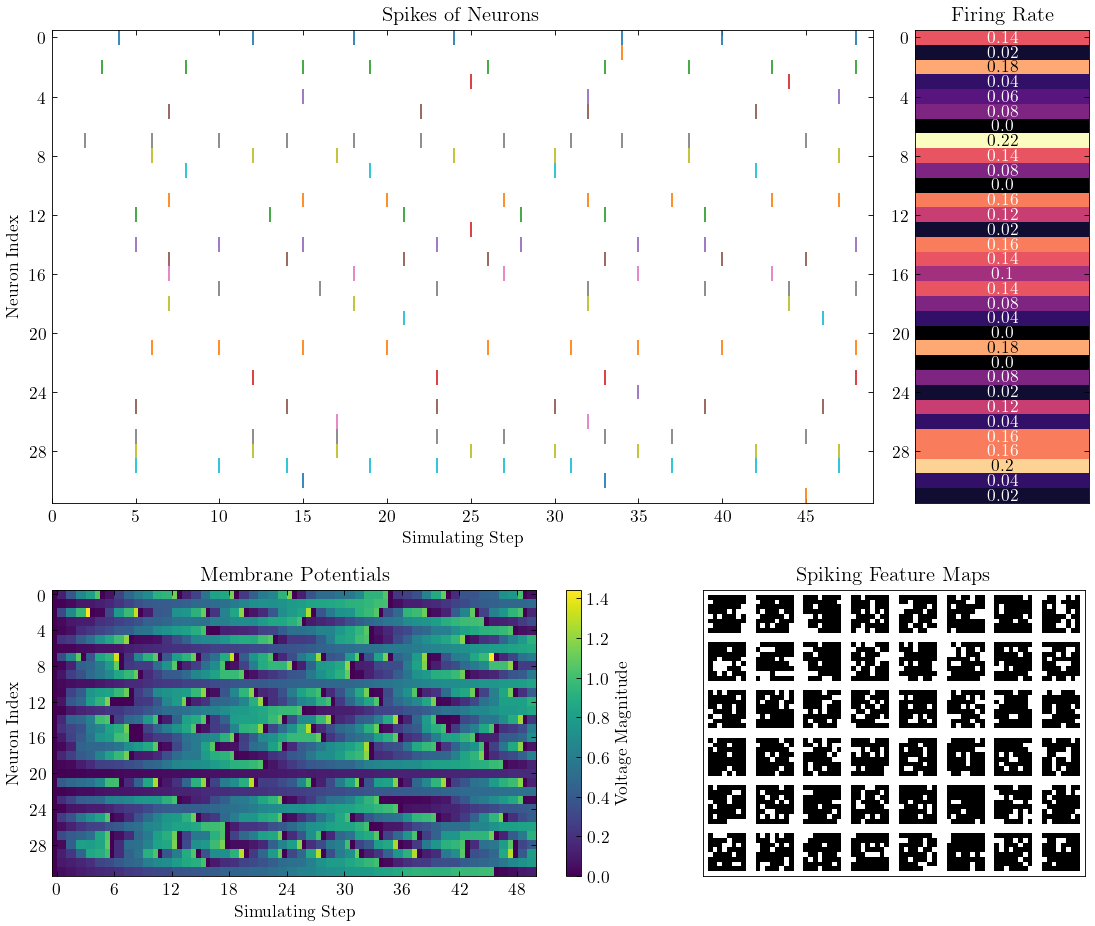
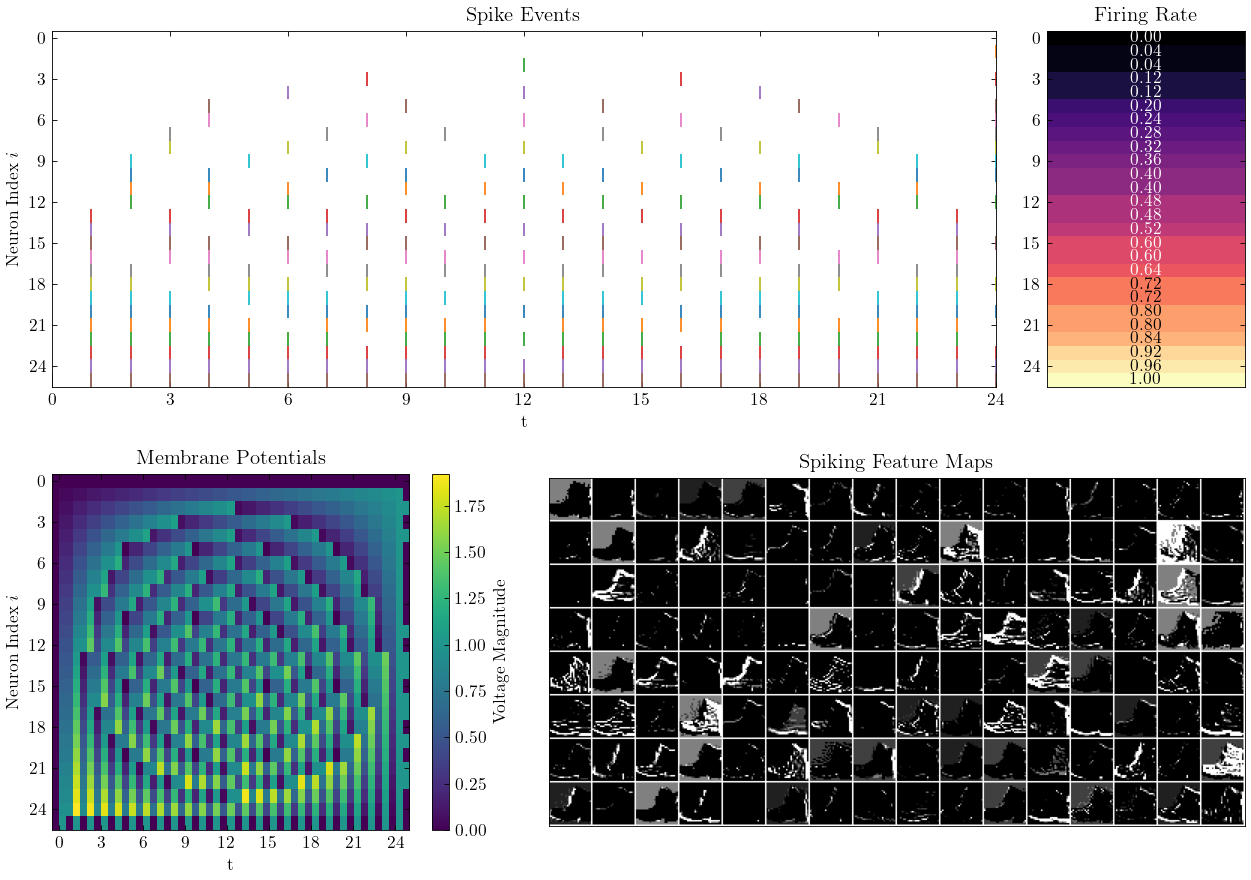
demo重绘

diff --git a/demo.py b/demo.py
@@ -5,98 +5,102 @@ from spikingflow import visualizing
 import numpy as np
 import matplotlib
 
-# Requires SciencePlots package: https://github.com/garrettj403/SciencePlots 
-plt.style.use(['science'])
+with torch.no_grad():
+	# Requires SciencePlots package: https://github.com/garrettj403/SciencePlots 
+	plt.style.use(['science'])
 
-neuron_num = 32
-T = 50
-lif_node = neuron.LIFNode(monitor_state=True)
-w = torch.rand([neuron_num]) * 50
-for t in range(T):
-	lif_node(w * torch.rand(size=[neuron_num]))
-s_t_array = np.asarray(lif_node.monitor['s']).T  # s_t_array[i][j]表示神经元i在j时刻释放的脉冲，为0或1
-v_t_array = np.asarray(lif_node.monitor['v']).T  # v_t_array[i][j]表示神经元i在j时刻的电压值
+	if_node = neuron.IFNode(v_reset=None, monitor_state=True)
+	T = 25
+	x = torch.arange(0, 1.04, 0.04)
+	for t in range(T):
+		if_node(x)
 
-fig = plt.figure(dpi=125, tight_layout=True)
-gs = matplotlib.gridspec.GridSpec(5, 5)
+	s_t_array = np.asarray(if_node.monitor['s']).T  # s_t_array[i][j]表示神经元i在j时刻释放的脉冲，为0或1
+	v_t_array = np.asarray(if_node.monitor['v']).T  # v_t_array[i][j]表示神经元i在j时刻的电压值
 
-# plot_1d_spikes
-spikes_map = fig.add_subplot(gs[:3, :4])
-spiking_rate_map = fig.add_subplot(gs[:3, 4])
+	fig = plt.figure(dpi=125, tight_layout=True)
+	gs = matplotlib.gridspec.GridSpec(2, 5)
 
-spikes_map.set_title('Spikes of Neurons')
-spikes_map.set_xlabel('Simulating Step')
-spikes_map.set_ylabel('Neuron Index')
+	# plot_1d_spikes
+	spikes_map = fig.add_subplot(gs[0, :4])
+	firing_rate_map = fig.add_subplot(gs[0, 4])
 
-spikes_map.xaxis.set_major_locator(matplotlib.ticker.MaxNLocator(integer=True))
-spikes_map.yaxis.set_major_locator(matplotlib.ticker.MaxNLocator(integer=True))
+	spikes_map.set_title('Spike Events')
+	spikes_map.set_xlabel('t')
+	spikes_map.set_ylabel('Neuron Index $i$')
 
-spikes_map.xaxis.set_minor_locator(matplotlib.ticker.NullLocator())
-spikes_map.yaxis.set_minor_locator(matplotlib.ticker.NullLocator())
+	spikes_map.xaxis.set_major_locator(matplotlib.ticker.MaxNLocator(integer=True))
+	spikes_map.yaxis.set_major_locator(matplotlib.ticker.MaxNLocator(integer=True))
 
-spikes_map.set_xlim(0, s_t_array.shape[1] - 1)
-spikes_map.set_ylim(-0.5, s_t_array.shape[0] - 0.5)
-spikes_map.invert_yaxis()
-N = s_t_array.shape[0]
-T = s_t_array.shape[1]
-t = np.arange(0, T)
-t_spike = s_t_array * t
-mask = (s_t_array == 1)  # eventplot中的数值是时间发生的时刻，因此需要用mask筛选出
+	spikes_map.xaxis.set_minor_locator(matplotlib.ticker.NullLocator())
+	spikes_map.yaxis.set_minor_locator(matplotlib.ticker.NullLocator())
 
-colormap = plt.get_cmap('tab10')  # cmap的种类参见https://matplotlib.org/gallery/color/colormap_reference.html
+	spikes_map.set_xlim(0, s_t_array.shape[1] - 1)
+	spikes_map.set_ylim(-0.5, s_t_array.shape[0] - 0.5)
+	spikes_map.invert_yaxis()
+	N = s_t_array.shape[0]
+	T = s_t_array.shape[1]
+	t = np.arange(0, T)
+	t_spike = s_t_array * t
+	mask = (s_t_array == 1)  # eventplot中的数值是时间发生的时刻，因此需要用mask筛选出
 
-for i in range(N):
-	spikes_map.eventplot(t_spike[i][mask[i]], lineoffsets=i, colors=colormap(i % 10))
+	colormap = plt.get_cmap('tab10')  # cmap的种类参见https://matplotlib.org/gallery/color/colormap_reference.html
 
-spiking_rate = np.mean(s_t_array, axis=1, keepdims=True)
-max_rate = spiking_rate.max()
-min_rate = spiking_rate.min()
-spiking_rate_map.yaxis.set_major_locator(matplotlib.ticker.MaxNLocator(integer=True))
-spiking_rate_map.yaxis.set_minor_locator(matplotlib.ticker.NullLocator())
-spiking_rate_map.imshow(spiking_rate, cmap='magma', aspect='auto')
+	for i in range(N):
+		spikes_map.eventplot(t_spike[i][mask[i]], lineoffsets=i, colors=colormap(i % 10))
 
-for i in range(spiking_rate.shape[0]):
-	spiking_rate_map.text(0, i, f'{spiking_rate[i][0]:.2f}', ha='center', va='center', color='w' if spiking_rate[i][0] < 0.7 * max_rate or min_rate == max_rate else 'black')
-spiking_rate_map.get_xaxis().set_visible(False)
-spiking_rate_map.set_title('Firing Rate')
+	firing_rate = np.mean(s_t_array, axis=1, keepdims=True)
+	max_rate = firing_rate.max()
+	min_rate = firing_rate.min()
+	firing_rate_map.yaxis.set_major_locator(matplotlib.ticker.MaxNLocator(integer=True))
+	firing_rate_map.yaxis.set_minor_locator(matplotlib.ticker.NullLocator())
+	firing_rate_map.imshow(firing_rate, cmap='magma', aspect='auto')
 
-# plot_2d_heatmap
+	for i in range(firing_rate.shape[0]):
+		firing_rate_map.text(0, i, f'{firing_rate[i][0]:.2f}', ha='center', va='center', color='w' if firing_rate[i][0] < 0.7 * max_rate or min_rate == max_rate else 'black')
+	firing_rate_map.get_xaxis().set_visible(False)
+	firing_rate_map.set_title('Firing Rate')
 
-heatmap = fig.add_subplot(gs[3:, :3])
-im = heatmap.imshow(v_t_array, aspect='auto', extent=[-0.5, T, v_t_array.shape[0] - 0.5, -0.5])
-heatmap.set_title('Membrane Potentials')
-heatmap.set_xlabel('Simulating Step')
-heatmap.set_ylabel('Neuron Index')
-heatmap.xaxis.set_major_locator(matplotlib.ticker.MaxNLocator(integer=True))
-heatmap.yaxis.set_major_locator(matplotlib.ticker.MaxNLocator(integer=True))
-heatmap.xaxis.set_minor_locator(matplotlib.ticker.NullLocator())
-heatmap.yaxis.set_minor_locator(matplotlib.ticker.NullLocator())
+	# plot_2d_heatmap
 
-cbar = heatmap.figure.colorbar(im)
-cbar.ax.set_ylabel('Voltage Magnitude', rotation=90, va='top')
-cbar.ax.yaxis.set_minor_locator(matplotlib.ticker.NullLocator())
+	heatmap = fig.add_subplot(gs[1, :2])
+	im = heatmap.imshow(v_t_array, aspect='auto', extent=[-0.5, T, v_t_array.shape[0] - 0.5, -0.5])
+	heatmap.set_title('Membrane Potentials')
+	heatmap.set_xlabel('t')
+	heatmap.set_ylabel('Neuron Index $i$')
+	heatmap.xaxis.set_major_locator(matplotlib.ticker.MaxNLocator(integer=True))
+	heatmap.yaxis.set_major_locator(matplotlib.ticker.MaxNLocator(integer=True))
+	heatmap.xaxis.set_minor_locator(matplotlib.ticker.NullLocator())
+	heatmap.yaxis.set_minor_locator(matplotlib.ticker.NullLocator())
 
-# plot_2d_spiking_feature_map
+	cbar = heatmap.figure.colorbar(im)
+	cbar.ax.set_ylabel('Voltage Magnitude', rotation=90, va='top')
+	cbar.ax.yaxis.set_minor_locator(matplotlib.ticker.NullLocator())
 
-C = 48
-W = 8
-H = 8
-spikes = (np.random.rand(C, W, H) > 0.8).astype(float)
-C = spikes.shape[0]
+	# plot_2d_spiking_feature_map
 
-h = spikes.shape[1]
-w = spikes.shape[2]
-y = np.ones(shape=[(h + 2) * 6, (w + 2) * 8]) * spikes.max().item()
-index = 0
-for i in range(1, y.shape[0], h + 2):
-	for j in range(1, y.shape[1], w + 2):
-		y[i:i + h, j:j + w] = spikes[index]
-		index += 1
-maps = fig.add_subplot(gs[3:, 3:])
-maps.set_title('Spiking Feature Maps')
-maps.imshow(y, cmap='gray')
+	spikes = np.load('out_spikes_c.npy')
+	C = spikes.shape[0]
 
-maps.get_xaxis().set_visible(False)
-maps.get_yaxis().set_visible(False)
+	nrows = 8
+	ncols = 16
+	space = 1
 
-plt.show()
+	assert nrows * ncols == C, 'nrows * ncols != C'
+
+	h = spikes.shape[1]
+	w = spikes.shape[2]
+	y = np.ones(shape=[(h + space) * nrows, (w + space) * ncols]) * spikes.max().item()
+	index = 0
+	for i in range(space // 2, y.shape[0], h + space):
+		for j in range(space // 2, y.shape[1], w + space):
+			y[i:i + h, j:j + w] = spikes[index]
+			index += 1
+	maps = fig.add_subplot(gs[1, 2:])
+	maps.set_title('Spiking Feature Maps')
+	maps.imshow(y, cmap='gray')
+
+	maps.get_xaxis().set_visible(False)
+	maps.get_yaxis().set_visible(False)
+
+	plt.show()

diff --git a/docs/source/_static/tutorials/clock_driven/3_fc_mnist/plot.py b/docs/source/_static/tutorials/clock_driven/3_fc_mnist/plot.py
@@ -50,5 +50,5 @@ plt.show()
 s_t_array = np.load('s_t_array.npy')
 visualizing.plot_1d_spikes(spikes=s_t_array, title='Spikes of Neurons', xlabel='Simulating Step',
 							ylabel='Neuron Index', int_x_ticks=True, int_y_ticks=True,
-							plot_spiking_rate=True, spiking_rate_map_title='Firing Rate', dpi=200)
+							plot_firing_rate=True, firing_rate_map_title='Firing Rate', dpi=200)
 plt.show()
